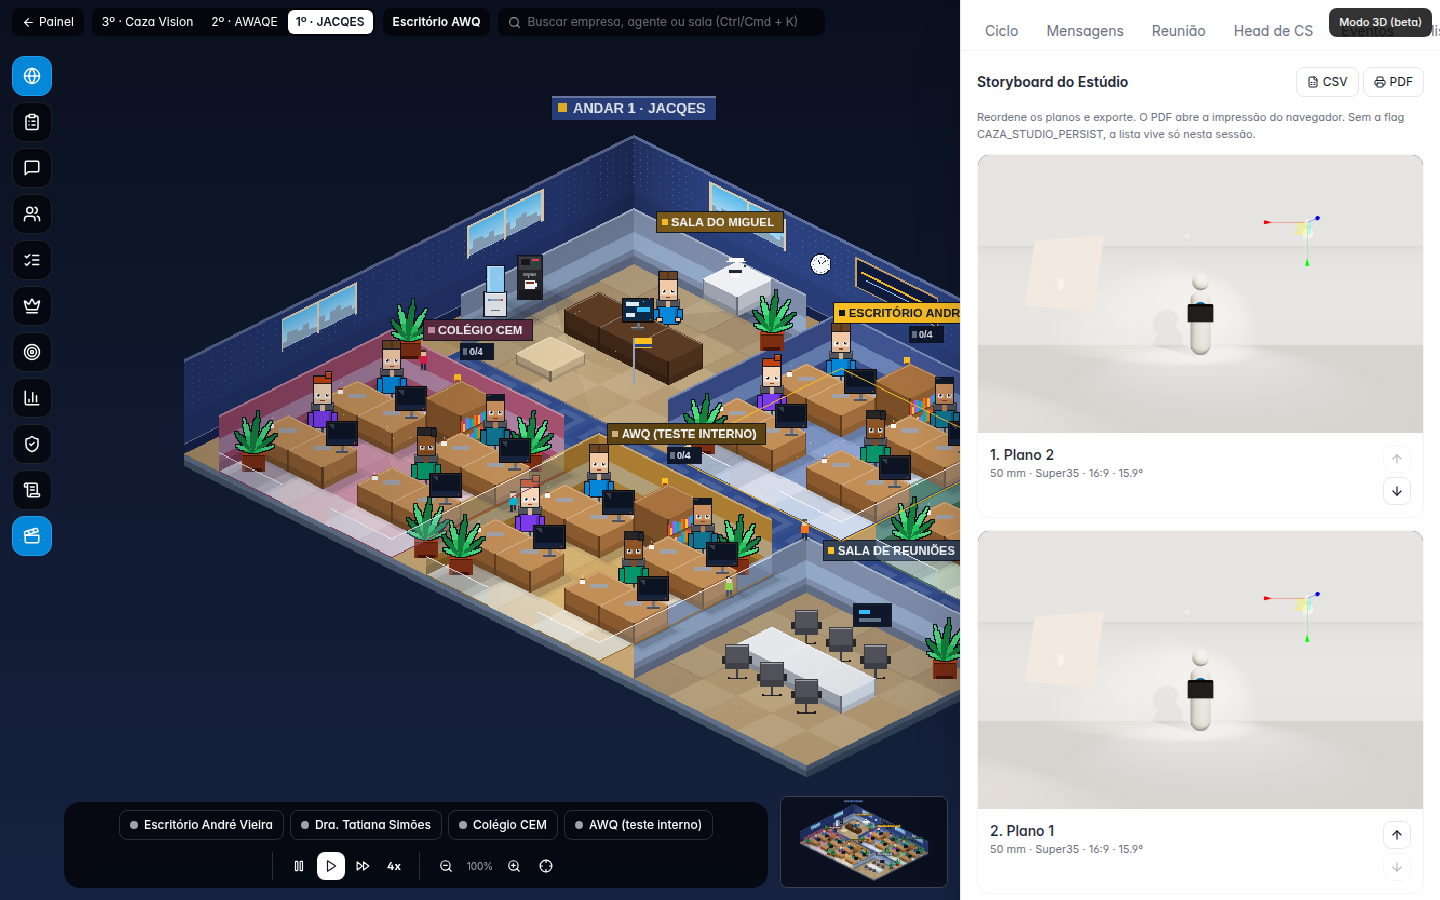
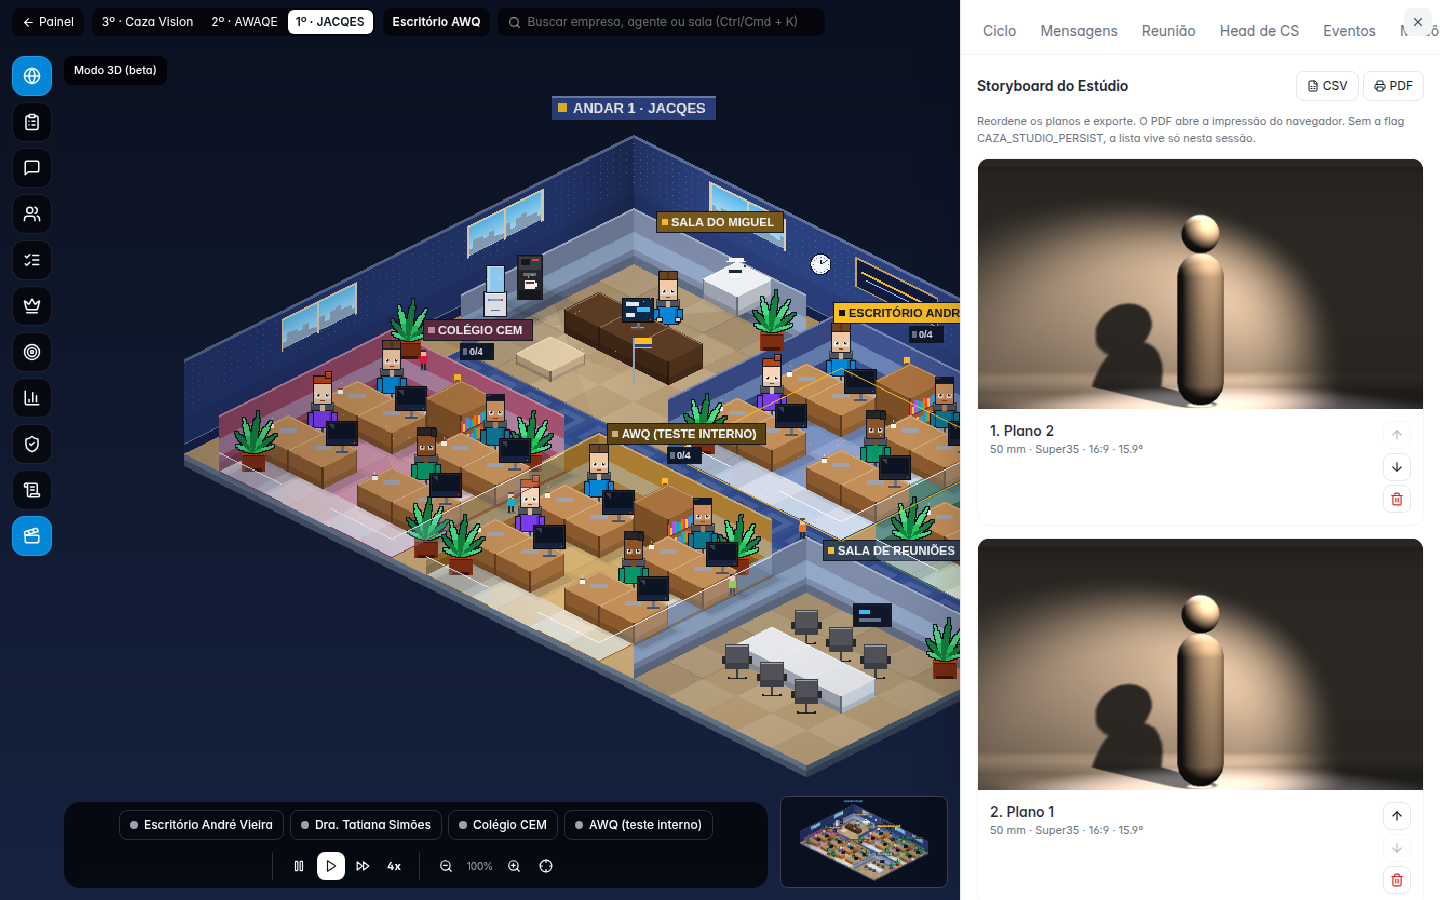
fix(office): a aba Storyboard fica inteira na gaveta
A faixa reserva a ponta do botão de fechar e as capturas do storyboard foram refeitas.

Changed region(s): [[0.6562, 0.0, 1.0, 0.5289], [0.6562, 0.5911, 1.0, 0.9644], [0.0312, 0.0622, 0.125, 0.0933]]

diff --git a/components/office/OfficeSimulator.tsx b/components/office/OfficeSimulator.tsx
@@ -1130,7 +1130,17 @@ export default function OfficeSimulator() {
   });
   empresasRef.current = empresas;
   useEffect(() => {
-    abaAtiva.current?.scrollIntoView({ inline: "nearest", block: "nearest" });
+    const el = abaAtiva.current;
+    const faixa = el?.parentElement;
+    if (!el || !faixa) return;
+    // O botão de fechar fica por cima da ponta direita da faixa.
+    const folga = 48;
+    const esquerda = el.offsetLeft;
+    const direita = esquerda + el.offsetWidth;
+    const vistaE = faixa.scrollLeft;
+    const vistaD = vistaE + faixa.clientWidth - folga;
+    if (direita > vistaD) faixa.scrollLeft = direita - (faixa.clientWidth - folga);
+    else if (esquerda < vistaE) faixa.scrollLeft = Math.max(0, esquerda - 8);
   }, [tab, painelAberto]);
 
   const Mundo = modo3D ? OfficeGame3D : OfficeGame;
